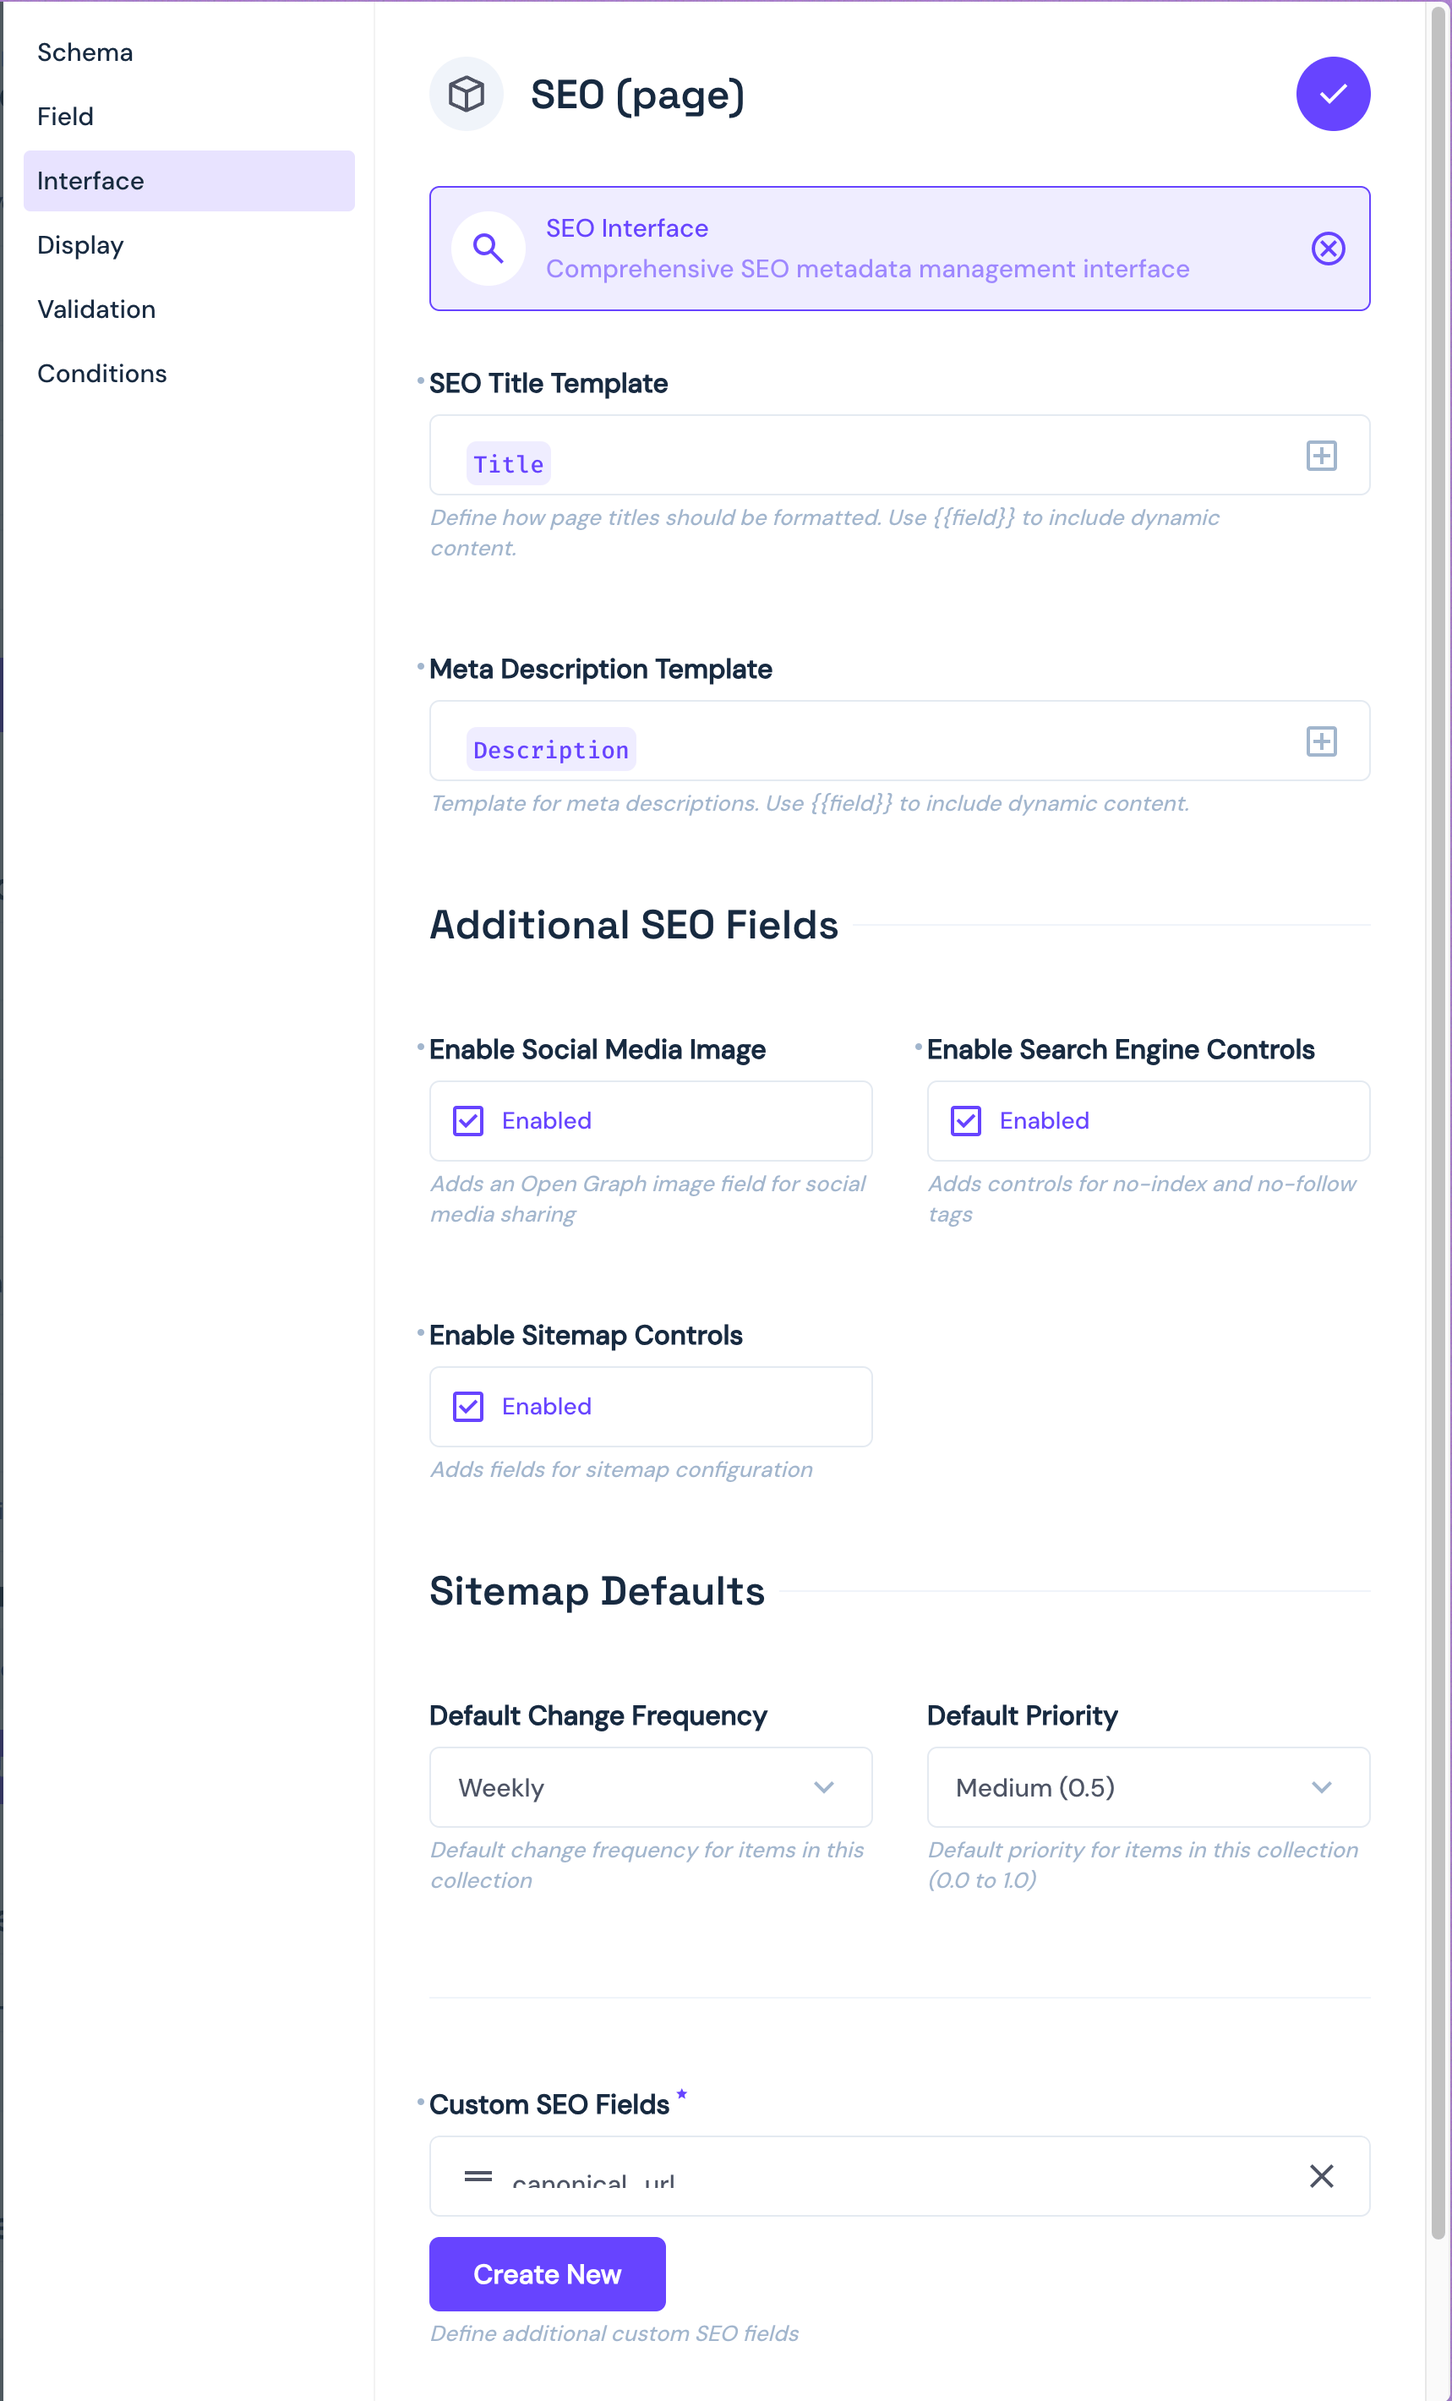
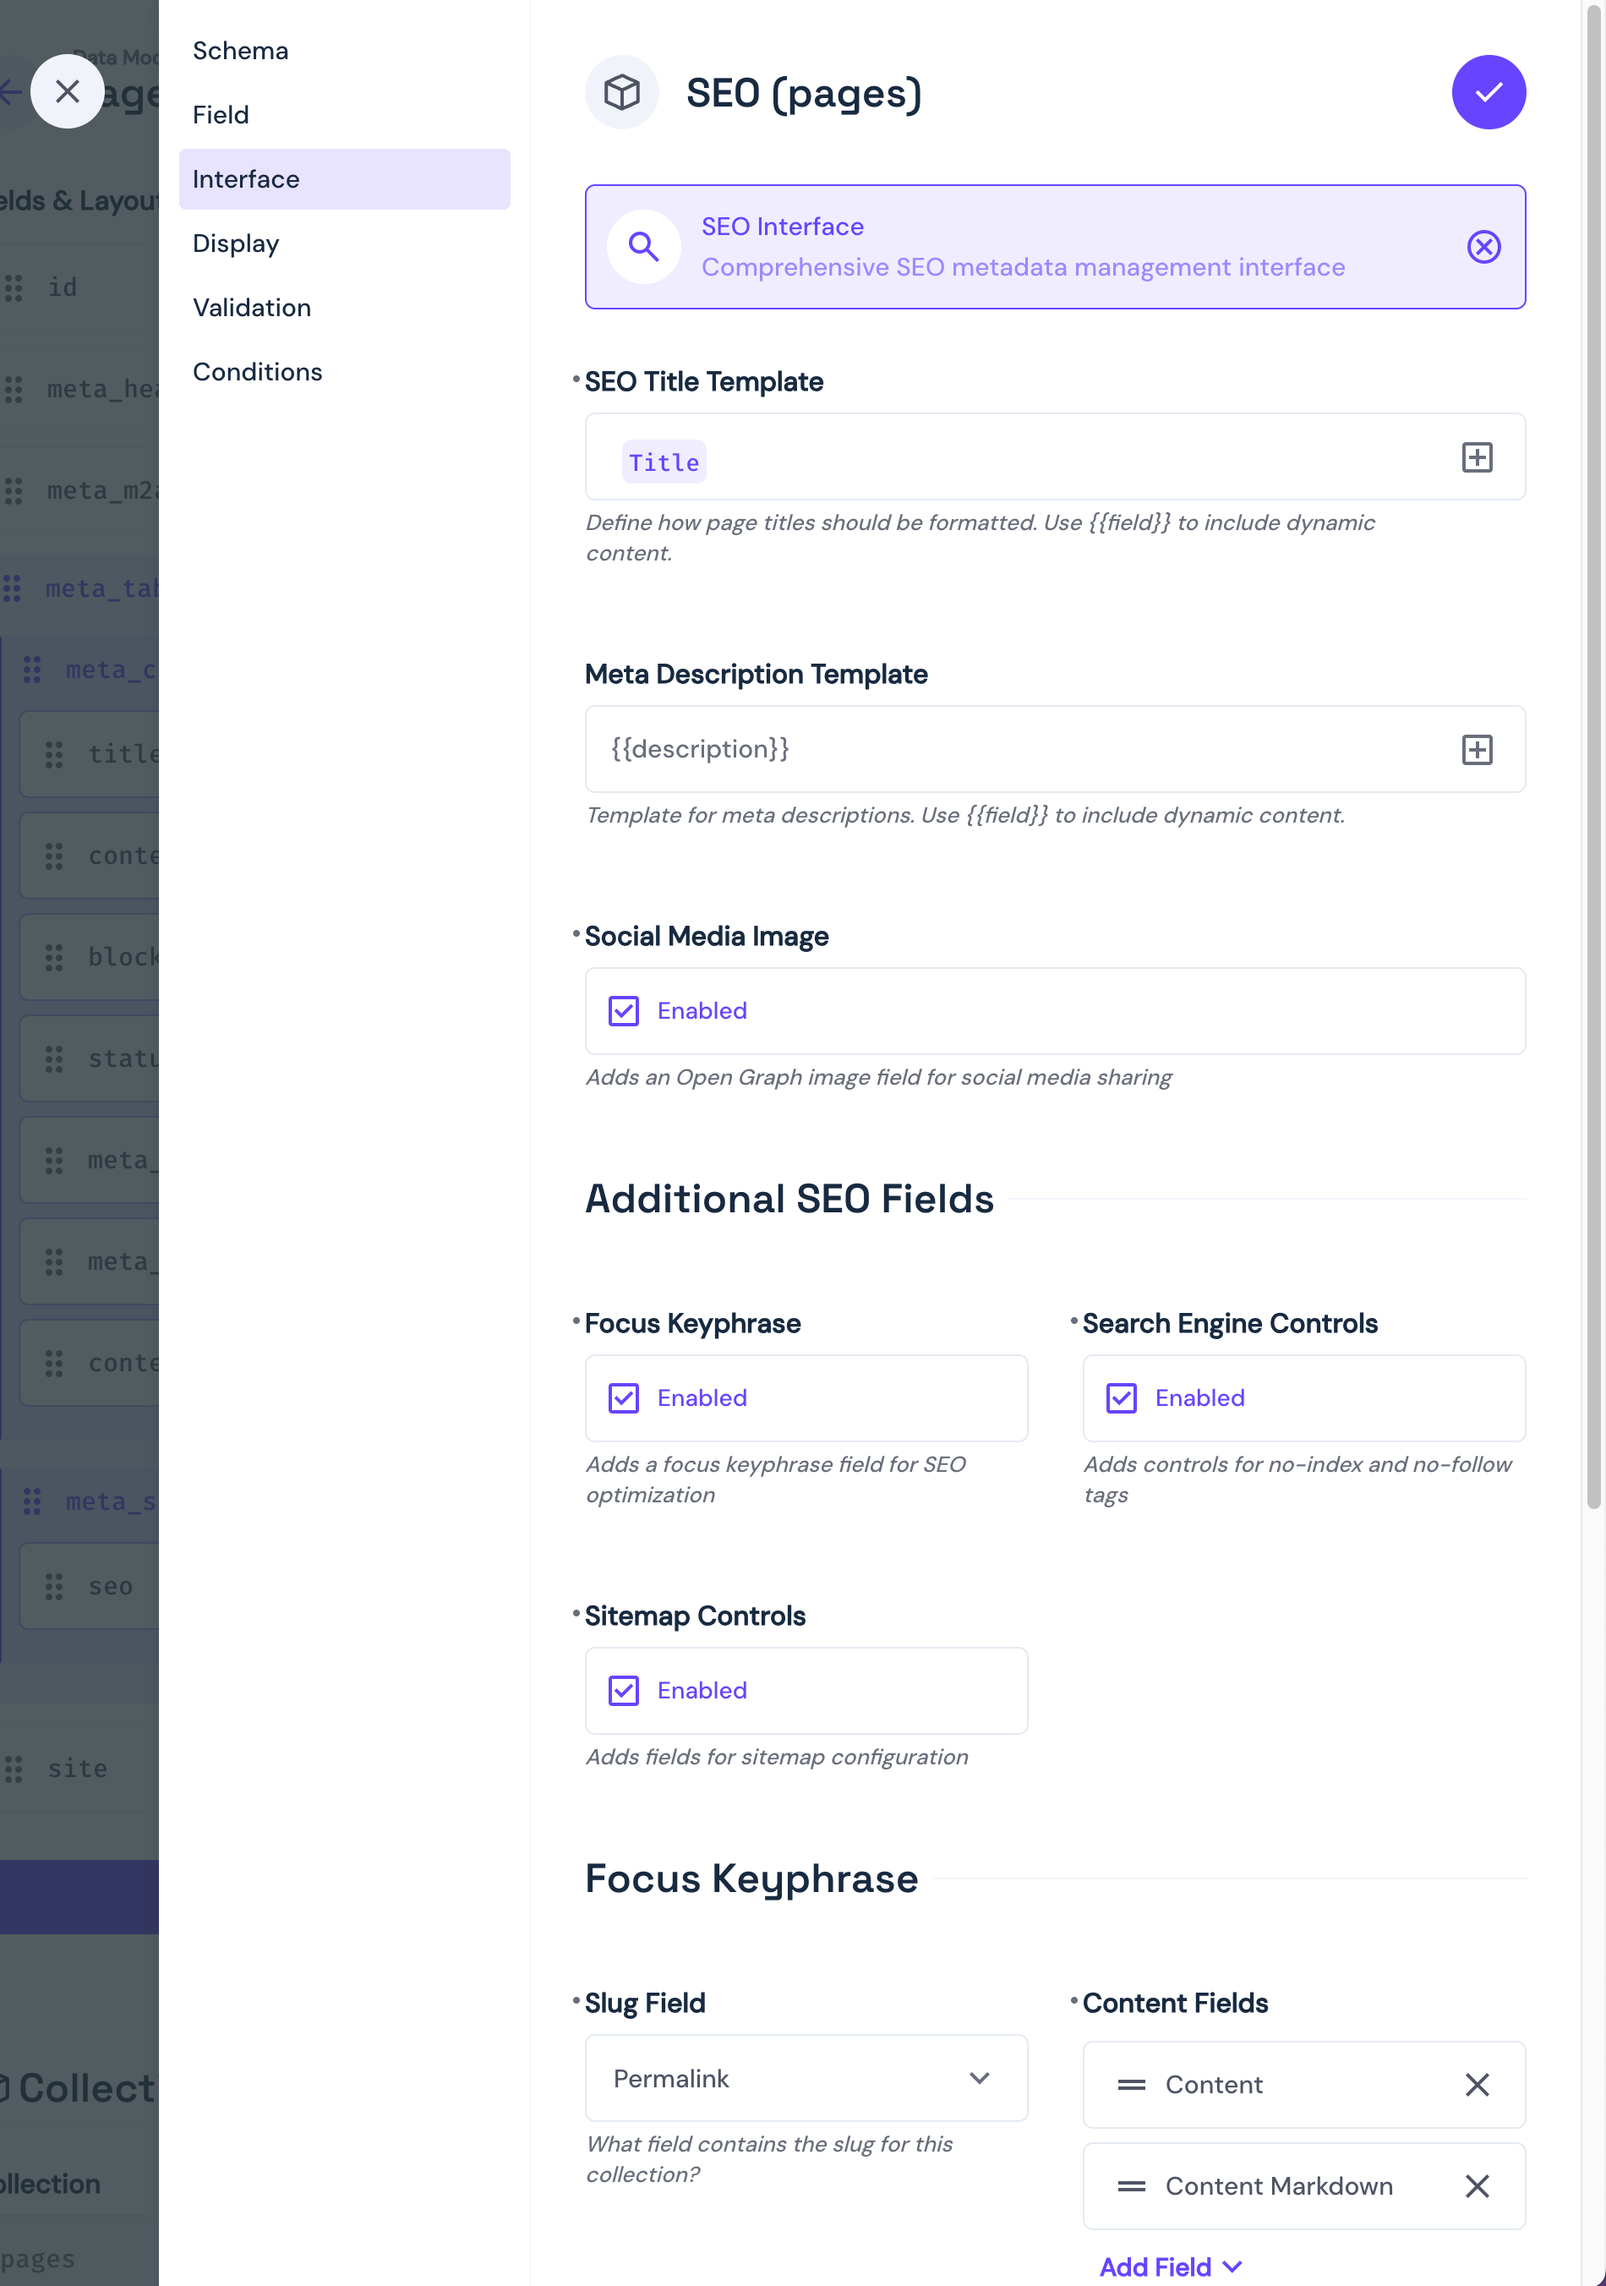
update docs

diff --git a/packages/seo-plugin/readme.md b/packages/seo-plugin/readme.md
@@ -1,4 +1,3 @@
-
 # SEO Plugin
 
 ![SEO Interface thumbnail](https://raw.githubusercontent.com/directus-labs/extensions/main/packages/seo-plugin/docs/seo-plugin-bundle.png)
@@ -9,7 +8,8 @@ A powerful SEO management extension that helps you optimize your content for sea
 
 - Title and meta description (with template support)
 - Visual search result previews
-- Social media image
+- **Focus keyphrase analysis** (new!)
+- Social media image and **previews** (new!)
 - Sitemap configuration
 - Search engine indexing controls
 - Custom SEO fields support (like canonical URLs, custom meta tags, JSON-LD, etc.)
@@ -18,6 +18,7 @@ A powerful SEO management extension that helps you optimize your content for sea
 **Interface** (shown in the item view)
 
 ![SEO Interface](https://raw.githubusercontent.com/directus-labs/extensions/main/packages/seo-plugin/docs/seo-plugin-interface.png)
+*Note: The interface now uses tabs for better organization (Basic, Advanced, Custom Fields, Keyphrase).*
 
 **Display** (shown in the layout view)
 
@@ -29,8 +30,16 @@ A powerful SEO management extension that helps you optimize your content for sea
 - **Title**: The most crucial SEO element. Should be compelling and include your main keyword (recommended length: 45-60 characters)
 - **Meta Description**: Your page's summary in search results. Make it engaging to improve click-through rates (recommended length: 130-160 characters)
 
+#### Keyphrase Analysis (New!)
+
+![SEO Interface Keyphrase](https://raw.githubusercontent.com/directus-labs/extensions/main/packages/seo-plugin/docs/seo-plugin-interface-keyphrase.png)
+
+- **Focus Keyphrase**: The primary keyword or phrase you want the page to rank for.
+- **Analysis**: Provides feedback on the keyphrase's presence and usage in the title, meta description, URL slug, and main content fields. Highlights problems, improvements, and good results.
+
 #### Social Media
 - **OG Image**: The image that appears when your page is shared on social media. Crucial for increasing social engagement.
+- **Social Previews**: Visualizes how the content will look when shared on different platforms.
 
 #### Search Engine Controls
 - **No Index**: Tells search engines not to show this page in search results
@@ -55,6 +64,7 @@ OG Image stores the UUID of the uploaded image. You'll want to make sure your fr
 	"title": "This is the Directus SEO Plugin.",
 	"meta_description": "A powerful SEO management extension that helps you optimize your content for search engines and social media sharing, right within Directus. It includes a comprehensive interface for managing metadata and a display component for monitoring SEO status.",
 	"og_image": "f5d20d13-e86a-4aaa-ab1c-241925b89ea3",
+	"focus_keyphrase": "Directus SEO",
 	"additional_fields": {
 		"canonical_url": "https://directus.io/",
 		"custom_meta_tag": "This is a custom meta tag"
@@ -73,17 +83,27 @@ OG Image stores the UUID of the uploaded image. You'll want to make sure your fr
 The SEO plugin consists of two components:
 
 ### 1. SEO Interface
-The interface provides a comprehensive form for managing SEO metadata:
-- Title field with character count and optimal length validation (45-60 characters)
-- Meta description with validation (130-160 characters)
-- Optional social media image upload and preview
-- Sitemap configuration options
-- Search engine visibility controls
-- Custom additional fields
+The interface provides a comprehensive form, organized into tabs, for managing SEO metadata:
+
+- **Basic Tab**:
+    - Page Title field with character count and optimal length validation (45-60 characters)
+    - Meta description with validation (130-160 characters)
+    - Search result preview
+    - Social media Open Graph (OG) image upload
+    - Social media share previews (new!)
+- **Advanced Tab**:
+    - Search engine visibility controls (No Index, No Follow)
+    - Sitemap configuration options
+- **Custom Fields Tab**:
+    - Support for adding custom SEO-related fields (e.g., canonical URL, custom meta tags)
+- **Keyphrase Tab** (new!):
+    - Input for the focus keyphrase
+    - Detailed analysis of keyphrase usage in title, description, slug, and content
+    - Feedback categorized into Problems, Improvements, and Good results
 
 ![SEO Interface Progress Bar](https://raw.githubusercontent.com/directus-labs/extensions/main/packages/seo-plugin/docs/seo-plugin-interface-progress.png)
 
-The title and meta description fields show a progress bar to help you keep track of the character count and optimal length according to the SEO best practices.
+The Page Title and meta description fields show a progress bar to help you keep track of the character count and optimal length according to the SEO best practices.
 
 To populate the title or meta description fields, with the template, use the `Apply Template` button to apply the template to the field.
 
@@ -120,7 +140,7 @@ To use the SEO plugin, add a new field to any (and all) collections you want to 
 
 - **Type**: `json`
 - **Group**: `standard`
-- **Options**: Configurable templates, OG image, sitemap settings, and custom fields
+- **Options**: Configurable templates, OG image, sitemap settings, custom fields, and **focus keyphrase settings** (new!)
 
 The interface can be configured with the following options:
 
@@ -132,23 +152,29 @@ The interface can be configured with the following options:
    - Configures the pattern for meta descriptions so you can use fields from the item to generate the description
    - Supports dynamic field values using `{{fieldName}}` syntax
 
-3. **Enable Social Media Image**
-   - Toggle to enable/disable social media image upload. Stores
+3. **Social Media Image**
+   - Toggle to enable/disable the Open Graph image upload and social media previews.
    - Disabled by default
 
-4. **Enable Search Engine Controls**
-   - Toggle to show/hide noindex/nofollow options
+4. **Focus Keyphrase**
+   - Toggle to enable/disable the Keyphrase analysis tab.
+   - Disabled by default
+   - **Slug Field**: Select the field in your collection that contains the URL slug for analysis.
+   - **Content Fields**: Select one or more fields containing the main content for analysis (e.g., WYSIWYG, Markdown).
+
+5. **Search Engine Controls**
+   - Toggle to show/hide noindex/nofollow options in the Advanced tab.
    - Disabled by default
 
-5. **Enable Sitemap Controls**
-   - Toggle to enable/disable sitemap configuration
+6. **Sitemap Controls**
+   - Toggle to enable/disable sitemap configuration in the Advanced tab.
    - When enabled, includes:
      - Default change frequency (preset to 'weekly')
      - Default priority (preset to '0.5')
    - Disabled by default
 
-6. **Additional Fields**
-   - Toggle to enable/disable additional fields
+7. **Custom SEO Fields**
+   - Toggle to enable/disable the Custom Fields tab.
    - Disabled by default
 
 ### Display Options
